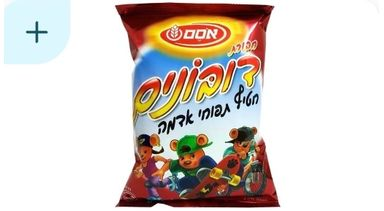
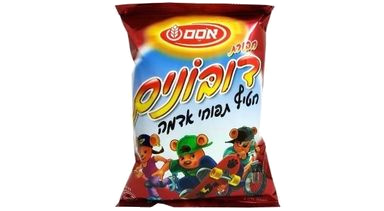
Apéro & snacks : 22 photos retouchées par le gérant (le rayon entier)
Il a renvoyé le rayon « Apéro & snacks » en entier : 22 photos repère
dont il a effacé le « + » de Wolt. 541 retouchées sur 718 ; il reste 95
photos de Wolt non retouchées sur des articles en vente (électronique,
entretien).

Claude-Session: https://claude.ai/code/session_01JfiBMDfPpcu8d2j1eWQu1s

Changed region(s): [[0.0, 0.0, 0.1875, 0.3128]]

diff --git a/tests/reperes-wolt.test.ts b/tests/reperes-wolt.test.ts
@@ -198,7 +198,7 @@ describe("photos repère", () => {
     }
     // Les premiers lots : les douze étuis de capsules Nespresso, puis le reste de l'épicerie.
     expect(Object.keys(registre).filter((f) => f.startsWith("capsules-nespresso-")).length).toBeGreaterThanOrEqual(12);
-    expect(Object.keys(registre).length).toBeGreaterThanOrEqual(519); // les rayons Crèmerie (228), Pain (75), Boissons (157), Boucherie & poisson (24), Surgelés (3) et les deux photos de Wolt des fruits et légumes
+    expect(Object.keys(registre).length).toBeGreaterThanOrEqual(541); // les rayons Crèmerie (228), Pain (75), Boissons (157), Boucherie & poisson (24), Apéro (22), Surgelés (3) et les deux photos de Wolt des fruits et légumes
     // Une photo du site lui-même (libre de droits, `public/`) n'est jamais au registre : ce n'est pas une photo de Wolt.
     for (const fichier of Object.keys(registre)) expect(existsSync(`public/produits/frais/${fichier}`), fichier).toBe(false);
     // L'outil ne pose qu'une retouche : même taille, rien que la photo en service ne montrait déjà, rien d'écrit hors du dossier privé.

diff --git a/CLAUDE.md b/CLAUDE.md
@@ -71,7 +71,7 @@ npm run seed         # catégories + réglages ; seed:demo ajoute des produits d
 - **« Je n'ai pas d'images alors que je t'ai tout envoyé de Wolt »** (le gérant, 17 novembre 2026, deux captures de l'ACCUEIL PUBLIC à l'appui — des cartes d'articles avec l'icône du rayon à la place d'une photo). Ce jour-là, « mets-moi toutes les photos ! » voulait dire : montre les photos de Wolt AUX CLIENTS, sur les articles du site. On ne le fait pas, et on le lui dit sans détour : ces photos sont celles de Wolt (découpées dans ses captures, souvent avec le « + » et les pastilles de Wolt dessus) ; lui envoyer une capture ne les rend pas siennes, et les publier sur un site qui revend les articles de Wolt l'expose auprès de Wolt, dont il dépend pour ses achats. Elles restent dans son espace (les 718 articles en vente ont la leur) — c'était la réponse de l'après-midi ; prévenu, il a décidé autrement le soir même (« Photos de Wolt pour tout le monde », plus bas : sa décision, on ne la rediscute pas). Ce qu'on lui propose pour les remplacer : « Photos rapides » → « Coller » (une image qu'il choisit lui-même, de préférence la photo de la marque), la photo prise au téléphone quand il a l'article en main (« Ajouter »), ou l'accord écrit de Wolt — alors elles se publient. LEÇON : « sans images » peut désigner son espace (15 novembre) OU le site public (17 novembre) — regarder sa capture ; s'il n'y en a pas, lui demander de quel écran il parle AVANT de chercher une panne. Ce jour-là on a d'abord cherché une panne d'affichage dans son espace, à tort : il n'y en avait pas. Il en reste un contrôle utile, lisible de l'extérieur : `/admin/repere/etat` (sans connexion : des NOMBRES seulement, jamais un nom ni une photo) dit combien de photos de la liste sont lisibles sur le serveur — 718 sur 718 — et ce que le serveur qui répond a fait des demandes de photos depuis son démarrage (servies, refusées, inconnues, illisibles). Pièges rencontrés : `pkill -f "next start"` ne tue PAS le serveur (le processus s'appelle `next-server`) — un ancien serveur reste sur le port et répond à la place du nouveau : `pkill -f next-server` ; et `npm run build` signale « Dynamic filesystem access causes tracing of the whole project » pour cette route (c'est ce qui embarque les photos : ne pas le « corriger » sans relire `/admin/repere/etat` après la mise en ligne).
 - **Vue du gérant sur le site** (17 novembre 2026, sa réponse au refus ci-dessus : « oui mais grâce à ces images de Wolt je peux chercher les images qui correspondent à chaque produit — alors mets-moi les images »). C'est sur SON site qu'il regarde ses articles : quand il est connecté à son espace sur l'appareil, chaque carte et chaque fiche de la boutique dont l'article n'a pas encore sa photo montre celle de Wolt, étiquetée « Wolt ». Une seule porte : `lib/vue-gerant.ts` — `vueDuGerant()` dit qui regarde (`gerant`, `pourTous`, `photosDeWolt`, `etiquettes`), `reperesPour(liste)` donne la photo de chaque article sans photo (elle relit le `nomWolt` sans le sortir) ; les lectures de `lib/catalogue.ts` passent toutes par `versPublics`, qui pose `ProduitPublic.repere` (`{ photo, etiquette }`, ou `null` : le visiteur ne reçoit alors même pas l'adresse). Affichage : `components/admin/ApercuGerant.tsx` (`ApercuSurCarte` à la place de l'icône du rayon ; `ApercuSurFiche` : la photo entière et, pour le gérant, « Mettre sa photo » → `/admin/produits/photos#p-<id>`, la ligne de l'article visée d'office dans « Photos rapides »). L'étiquette « Wolt » et ce lien n'existent que pour le gérant (`repere.etiquette`) : le site ne nomme jamais Wolt devant un client. Sous l'en-tête, le bandeau `BandeauDuGerant` (`components/admin/VueDuGerant.tsx`, rien pour un client ; en français, de gauche à droite, même sur une page en hébreu) dit qui voit ces photos, mène à « Photos rapides » et aux réglages, et porte « Voir comme un client » / « Revenir à ma vue » (`changerLaVueDuSite`, cookie `vue_client`, douze heures : un simple choix d'affichage, qui ne vaut rien sans la connexion du gérant). Une image qu'il colle dans « Photos rapides » prend la place de la photo de Wolt, pour lui comme pour ses clients. Les pages de la boutique ne sont gardées par aucun cache partagé (`force-dynamic`, `private, no-store`) : ne jamais en ajouter un sans sortir `repere` de ce qui est gardé. Vérifier : `tests/navigateur/vue-gerant.mjs` (112 vérifications, dans les deux états du réglage ci-dessous ; il coche et décoche le réglage puis le remet : base locale seulement — `SANS_GERANT=1` sur le vrai site : la partie « client » seule, sans rien modifier), `tests/reperes-wolt.test.ts`.
 - **Photos de Wolt pour tout le monde** (décision du gérant, 17 novembre 2026 au soir : « le site a 0 client, on est 2 à bosser dessus et on ne peut pas se connecter à l'admin à chaque fois — active-moi les photos pour tout le monde »). Prévenu deux fois, le jour même, que ces photos sont celles de Wolt et des marques et de ce que cela risque auprès de Wolt, il a choisi : c'est SA décision, on l'applique sans la rediscuter. C'est un RÉGLAGE, pas du code : `Reglages.photosWoltPourTous` (Réglages → « Photos de Wolt pour tout le monde », faux par défaut dans le schéma), coché une seule fois par la mise en ligne (`montrerLesPhotosDeWoltATous`, clé dans `operationsFaites`) — s'il le décoche, il le reste. Coché : tout visiteur voit la photo de Wolt sur les articles sans photo (sans étiquette), et la route `/admin/repere/<fichier>` la sert sans connexion (`public, max-age=600` : décochée, la case fait effet en dix minutes au plus ; le réglage lui-même est relu toutes les dix secondes, `photosDeWoltPourTous`). Décoché : retour à la vue du gérant seule, la route exige de nouveau sa connexion. Dans les deux cas ces photos restent hors de `public/`, ne sont jamais copiées dans `photoUrl`, et les moteurs de recherche n'y vont pas (`/admin` fermé dans `robots.txt`, en-tête `noindex`). `/admin/repere/etat` porte `pourTous` : on lit de l'extérieur l'état du réglage. Ce qui reste vrai, à lui redire UNE fois quand il annoncera des clients (pas avant, pas à chaque message) : décocher la case, ou d'ici là remplacer les photos par les siennes dans « Photos rapides » — chaque image collée prend la place de celle de Wolt. Ne pas étendre : pas de photo de Wolt dans un e-mail, la carte d'aperçu de lien, le panier, ni comme photo enregistrée d'un article. S'il envoie une capture du site avec des photos de Wolt, c'est normal : le réglage est coché.
-- **Les photos de Wolt retouchées par le gérant** (24 novembre 2026 : « si je t'envoie un fichier zip, tu peux le décompresser ? j'ai mes nouvelles images dedans » — après avoir reçu l'export de toutes les photos du site, un ZIP rangé par rayon où chaque image porte le nom de l'article). Ses « nouvelles images » sont les MÊMES photos repère (384 × 211), dont il a effacé le « + » et les pastilles de Wolt : il les renvoie par lots, dans un ZIP, sous le nom que l'export leur a donné (« Capsules Nespresso Capriccio 60 g.jpg »). Chaque retouche REMPLACE le fichier de `prive/reperes-wolt` qu'elle retouche — même nom de fichier, donc rien d'autre ne change : le site la montre partout où il montrait l'ancienne (cartes, fiches, espace gérant), sous le même réglage « Photos de Wolt pour tout le monde », et le gérant connecté la voit toujours étiquetée « Wolt ». Elle RESTE une photo repère : jamais dans `public/`, jamais copiée dans `photoUrl` — effacer le « + » ne change pas à qui est la photo ; on le lui a dit une fois, en lui laissant le choix d'en faire les photos définitives de ces articles s'il le demande en le sachant. Poser un lot : décompresser l'archive dans un dossier vide à elle (données reçues : on n'en lit que les points), `npx tsx tests/outils/poser-photos-retouchees.ts <dossier>` (essai à blanc), puis `--poser`. L'outil ne pose qu'une vraie retouche — un article de ce nom existe, même taille que la photo en service, et ce que l'image montre était DÉJÀ dans la photo en service (`ressemblance` : une retouche efface et n'ajoute rien — le « + », les pastilles, l'étiquette de poids de Wolt, souvent tout le fond gris d'une photo du traiteur ou de la boulangerie, DÉTOURÉE : il peut n'en rester qu'un cinquième, d'où des seuils larges, 80 % de « déjà là » et 10 % de « gardé », qui restent très loin d'une autre image — 3 à 13 % pour un autre article ; une image glissée sous un mauvais nom, ou une autre photo du même article, est refusée), moins de 40 Ko — et note le lot dans `prive/reperes-retouches.json`. Où l'on en est : 519 sur 718 (le 24 novembre : trois dossiers de dix, puis les rayons Crèmerie, Pain, Boissons, Fruits & légumes, Boucherie & poisson et Surgelés entiers) — tout « Courses & épicerie » (27 articles, dont les 12 étuis Nespresso), toute la « Crèmerie & œufs » (231 ; ses quatre boîtes d'œufs ont déjà la photo libre du site), tout « Pain & pâtisserie » (75), toutes les « Boissons » (157), les deux seules photos de Wolt des « Fruits & légumes » (betteraves, menthe), toute la « Boucherie & poisson » (24) et les « Surgelés » (3) ; il reste 117 photos de Wolt non retouchées sur des articles en vente (Électronique 80, Apéro 22, Entretien 15). **Il détoure aussi les photos LIBRES du site** (rayon « Fruits & légumes », `public/produits/frais`, 600 × 600) : sur les 38 de ce rayon, sept sont revenues détourées sur blanc (aubergines, citrons, laitue romaine, oignons verts, poivrons tricolores, pommes de terre rouges, pommes Granny Smith), deux seulement réenregistrées (ail, oignons jaunes : laissées) et 29 inchangées. Une photo du site détourée prend la place du MÊME fichier de `public/produits/frais` — la seule écriture de l'outil hors du dossier privé, et seulement si l'image est cette photo du site retouchée (même taille, rien qu'elle ne montrait déjà : une photo de Wolt ne peut pas y arriver). Les licences (CC BY, CC BY-SA) permettent de modifier à condition de le dire : la photo est marquée `detouree` dans `lib/credits-photos.ts`, sa ligne de la page /credits porte « fond retiré » (`credits.fondRetire`, cinq langues) et le paragraphe « Modifications » le dit (`tests/photos.test.ts`). La bannière de l'accueil et l'affiche A4 sont des images à part : elles gardent les anciennes photos tant qu'on ne les refait pas. Il renvoie maintenant des RAYONS ENTIERS, dans le dossier que l'export leur a donné (« 02 - Crèmerie & œufs », 235 images) : l'outil y range à part, sous « Laissées » et sans échouer, ce qui n'est pas à poser — la photo du site elle-même (les œufs : `public/produits/frais`, 600 × 600, pas une photo de Wolt), une image qu'il n'a pas touchée, et une photo déjà retouchée DAVANTAGE dans un lot précédent (les trois Actimel : dans le rayon entier il n'avait effacé que le « + », dans son dossier 3 les bandeaux aussi — on garde la mieux retouchée, et on le lui dit). Dans un rayon entier il n'efface souvent que le « + » : les bandeaux de couleur de Wolt (« 16 יחידות », le goût) restent sur la photo — c'est son choix, ne pas les retirer à sa place. Ses archives arrivent avec des noms de fichiers aux accents décomposés (« é » en deux signes) : l'outil les lit quand même (`normalize("NFC")`). Regarder tout de même le lot sur une planche avant de le poser, lui dire le compte (posées, refusées et pourquoi) et ce qui manque. Une AUTRE photo du même article (une vraie photo de marque, plus grande) n'est pas une retouche : elle se pose comme photo de l'article (« Photos rapides »), pas ici. Après la mise en ligne, l'ancienne image peut rester dix minutes dans les caches (`max-age=600`). `tests/reperes-wolt.test.ts`.
+- **Les photos de Wolt retouchées par le gérant** (24 novembre 2026 : « si je t'envoie un fichier zip, tu peux le décompresser ? j'ai mes nouvelles images dedans » — après avoir reçu l'export de toutes les photos du site, un ZIP rangé par rayon où chaque image porte le nom de l'article). Ses « nouvelles images » sont les MÊMES photos repère (384 × 211), dont il a effacé le « + » et les pastilles de Wolt : il les renvoie par lots, dans un ZIP, sous le nom que l'export leur a donné (« Capsules Nespresso Capriccio 60 g.jpg »). Chaque retouche REMPLACE le fichier de `prive/reperes-wolt` qu'elle retouche — même nom de fichier, donc rien d'autre ne change : le site la montre partout où il montrait l'ancienne (cartes, fiches, espace gérant), sous le même réglage « Photos de Wolt pour tout le monde », et le gérant connecté la voit toujours étiquetée « Wolt ». Elle RESTE une photo repère : jamais dans `public/`, jamais copiée dans `photoUrl` — effacer le « + » ne change pas à qui est la photo ; on le lui a dit une fois, en lui laissant le choix d'en faire les photos définitives de ces articles s'il le demande en le sachant. Poser un lot : décompresser l'archive dans un dossier vide à elle (données reçues : on n'en lit que les points), `npx tsx tests/outils/poser-photos-retouchees.ts <dossier>` (essai à blanc), puis `--poser`. L'outil ne pose qu'une vraie retouche — un article de ce nom existe, même taille que la photo en service, et ce que l'image montre était DÉJÀ dans la photo en service (`ressemblance` : une retouche efface et n'ajoute rien — le « + », les pastilles, l'étiquette de poids de Wolt, souvent tout le fond gris d'une photo du traiteur ou de la boulangerie, DÉTOURÉE : il peut n'en rester qu'un cinquième, d'où des seuils larges, 80 % de « déjà là » et 10 % de « gardé », qui restent très loin d'une autre image — 3 à 13 % pour un autre article ; une image glissée sous un mauvais nom, ou une autre photo du même article, est refusée), moins de 40 Ko — et note le lot dans `prive/reperes-retouches.json`. Où l'on en est : 541 sur 718 (le 24 novembre : trois dossiers de dix, puis les rayons Crèmerie, Pain, Boissons, Fruits & légumes, Boucherie & poisson, Surgelés et Apéro & snacks entiers) — tout « Courses & épicerie » (27 articles, dont les 12 étuis Nespresso), toute la « Crèmerie & œufs » (231 ; ses quatre boîtes d'œufs ont déjà la photo libre du site), tout « Pain & pâtisserie » (75), toutes les « Boissons » (157), les deux seules photos de Wolt des « Fruits & légumes » (betteraves, menthe), toute la « Boucherie & poisson » (24), les « Surgelés » (3) et tout « Apéro & snacks » (22) ; il reste 95 photos de Wolt non retouchées sur des articles en vente (Électronique 80, Entretien 15). **Il détoure aussi les photos LIBRES du site** (rayon « Fruits & légumes », `public/produits/frais`, 600 × 600) : sur les 38 de ce rayon, sept sont revenues détourées sur blanc (aubergines, citrons, laitue romaine, oignons verts, poivrons tricolores, pommes de terre rouges, pommes Granny Smith), deux seulement réenregistrées (ail, oignons jaunes : laissées) et 29 inchangées. Une photo du site détourée prend la place du MÊME fichier de `public/produits/frais` — la seule écriture de l'outil hors du dossier privé, et seulement si l'image est cette photo du site retouchée (même taille, rien qu'elle ne montrait déjà : une photo de Wolt ne peut pas y arriver). Les licences (CC BY, CC BY-SA) permettent de modifier à condition de le dire : la photo est marquée `detouree` dans `lib/credits-photos.ts`, sa ligne de la page /credits porte « fond retiré » (`credits.fondRetire`, cinq langues) et le paragraphe « Modifications » le dit (`tests/photos.test.ts`). La bannière de l'accueil et l'affiche A4 sont des images à part : elles gardent les anciennes photos tant qu'on ne les refait pas. Il renvoie maintenant des RAYONS ENTIERS, dans le dossier que l'export leur a donné (« 02 - Crèmerie & œufs », 235 images) : l'outil y range à part, sous « Laissées » et sans échouer, ce qui n'est pas à poser — la photo du site elle-même (les œufs : `public/produits/frais`, 600 × 600, pas une photo de Wolt), une image qu'il n'a pas touchée, et une photo déjà retouchée DAVANTAGE dans un lot précédent (les trois Actimel : dans le rayon entier il n'avait effacé que le « + », dans son dossier 3 les bandeaux aussi — on garde la mieux retouchée, et on le lui dit). Dans un rayon entier il n'efface souvent que le « + » : les bandeaux de couleur de Wolt (« 16 יחידות », le goût) restent sur la photo — c'est son choix, ne pas les retirer à sa place. Ses archives arrivent avec des noms de fichiers aux accents décomposés (« é » en deux signes) : l'outil les lit quand même (`normalize("NFC")`). Regarder tout de même le lot sur une planche avant de le poser, lui dire le compte (posées, refusées et pourquoi) et ce qui manque. Une AUTRE photo du même article (une vraie photo de marque, plus grande) n'est pas une retouche : elle se pose comme photo de l'article (« Photos rapides »), pas ici. Après la mise en ligne, l'ancienne image peut rester dix minutes dans les caches (`max-age=600`). `tests/reperes-wolt.test.ts`.
 - **Ce que Wolt ne vend pas est SUPPRIMÉ du site** (décision du gérant, 15 novembre 2026 : « tout ce que tu ne vois pas sur les photos, tu me le supprimes — je ne peux pas faire des produits que Wolt n'a pas »). La seule preuve qu'un article n'est pas chez Wolt est la page ENTIÈRE de son rayon : une liste par page entière reçue, dans `prisma/absents-de-wolt.ts` (`ABSENTS_DE_WOLT`), appliquée une seule fois par `supprimerLesAbsentsDeWolt` (supprimés pour de bon — masqués, ils resteraient dans son espace ; une commande passée garde sa ligne). Une page partielle (« Les plus commandés », « Promotions », des captures d'écran qui ne se recouvrent pas) ne prouve RIEN : ne rien supprimer d'après elle, et le lui dire — une suppression « de tout ce qui n'a pas de photo » aurait emporté un tiers du catalogue, dont des rayons entiers dont il n'a jamais envoyé la page. Fait : le rayon Boissons (page entière du 15 novembre, 261 cartes) — 16 boissons supprimées, 157 restent. Ne sont jamais dans ces listes : un article que Wolt affichait lors d'un relevé précédent et plus ce jour-là (il a son nom exact, son prix, souvent sa photo ; Wolt peut le remettre en rayon : on le signale au gérant, qui décide de le masquer) ; un article de sa liste dont il a noté lui-même le prix d'achat (il l'a trouvé sur Wolt : `prixAchat: null` dans la condition). Pour un autre rayon : lui demander la page entière (« כל הפריטים » du rayon, défilée jusqu'en bas), comparer TOUS les articles en vente du rayon à la page — pas seulement ceux sans photo —, lui montrer la liste, puis ajouter une entrée (`tests/absents-de-wolt.test.ts`).
 - **Ce qui a sa photo de Wolt se vend** (décision du gérant, 16 novembre 2026 : « mets-moi même les produits que tu as supprimés, si tu as les images »). Les 21 articles SUPPRIMÉS n'avaient aucune image (ils l'ont été parce que Wolt ne les montrait pas) : aucun n'est revenu. Mais 40 articles MASQUÉS avaient leur photo ; on lui a posé la question groupe par groupe, avec la raison de chaque masquage, et il a choisi les trois : 7 boissons que Wolt n'affichait plus le 15 novembre, 20 poissons surgelés, 13 viandes et volailles (`prisma/remise-en-vente-1116.ts`, `remettreEnVenteCeQuiAUnePhoto`, une seule fois, seulement un article encore masqué qui a un prix ; `tests/remise-en-vente-avec-photo.test.ts`). Sa règle — je reconnais l'article, donc je le vends — passe donc AVANT ses décisions du 11 novembre (viande : cacherout) et du 15 (poisson surgelé, boissons absentes de la page entière), mais pour ces 40 articles seulement : les 27 viandes, les 2 poissons surgelés et les 339 autres articles sans photo restent masqués, l'alcool reste « à réfléchir », la liste Dynamica reste masquée. Quand une capture montre un article masqué, il reçoit sa photo et revient en vente — SAUF ce qu'il a retiré lui-même le 19 novembre (plus bas) : la viande et le poulet frais, le poisson frais et surgelé, la viande surgelée et les glaces ne reviennent que sur sa demande ; ne pas AJOUTER de nouveaux articles de viande pour autant (`tests/retrait-viande.test.ts`). Le rayon où la viande revient a repris son nom, « Boucherie & poisson » (« Meat & fish », « Мясо и рыба », « בשר ודגים », « Carne y pescado » : `rayons.poisson` des cinq dictionnaires), à la MÊME adresse `poisson` ; la viande s'y range dans le sous-rayon « Viande & volaille », qui existait déjà. Résultat ce jour-là : 718 articles en vente, qui ont tous leur photo de Wolt (Crèmerie 235, Boissons 157, Électronique 80, Pain 75, Boucherie & poisson 53, Fruits & légumes 40, Épicerie 27, Apéro 22, Entretien 15, Surgelés 14) — 678 depuis ses retraits du 19 novembre (Boucherie & poisson 24, Surgelés 3) ; plus aucun rayon ne tient en 12 articles (`parcours-rayons.mjs` suit les surgelés comme un rayon à sous-rayons). Les 7 boissons peuvent manquer sur Wolt le jour d'une commande : il le sait.
 - **Viande et poulet frais : retirés** (décision du gérant, 19 novembre 2026 : « enlève-moi tout ce qui est viande, poulet frais »). Sept des treize viandes revenues en vente le 16 — celles dont le nom dit « frais », toutes au poids, rayon « Boucherie & poisson » : cinq poulets (blanc, aiguillettes, émincé, steaks de pargit, assortiment) et deux bœufs (entrecôte, émincé) — sont MASQUÉES une seule fois (`VIANDE_FRAICHE`, `prisma/retrait-viande-fraiche-1119.ts` ; `retirerLaViandeFraiche`, lancée APRÈS `remettreEnVenteCeQuiAUnePhoto` : sur une base neuve celle-ci les remet d'abord en vente). Masquées, pas supprimées : elles gardent nom, prix et photo dans son espace ; ce qu'il remet en vente lui-même y reste. Il n'a parlé que du FRAIS : restent en vente la charcuterie sous vide (deux saucisses et deux pastramis Tirat Zvi, seuls articles du sous-rayon « Viande & volaille » désormais) et les deux surgelés (blanc de poulet, bœuf haché) — on le lui a dit ; s'il veut les retirer aussi, une opération de plus, sur sa demande. Désormais une capture de Wolt ne ramène plus de viande ni de poulet frais en vente : seulement s'il le demande. 711 articles en vente après ce retrait, Boucherie & poisson 46 (`tests/retrait-viande-fraiche.test.ts`).
